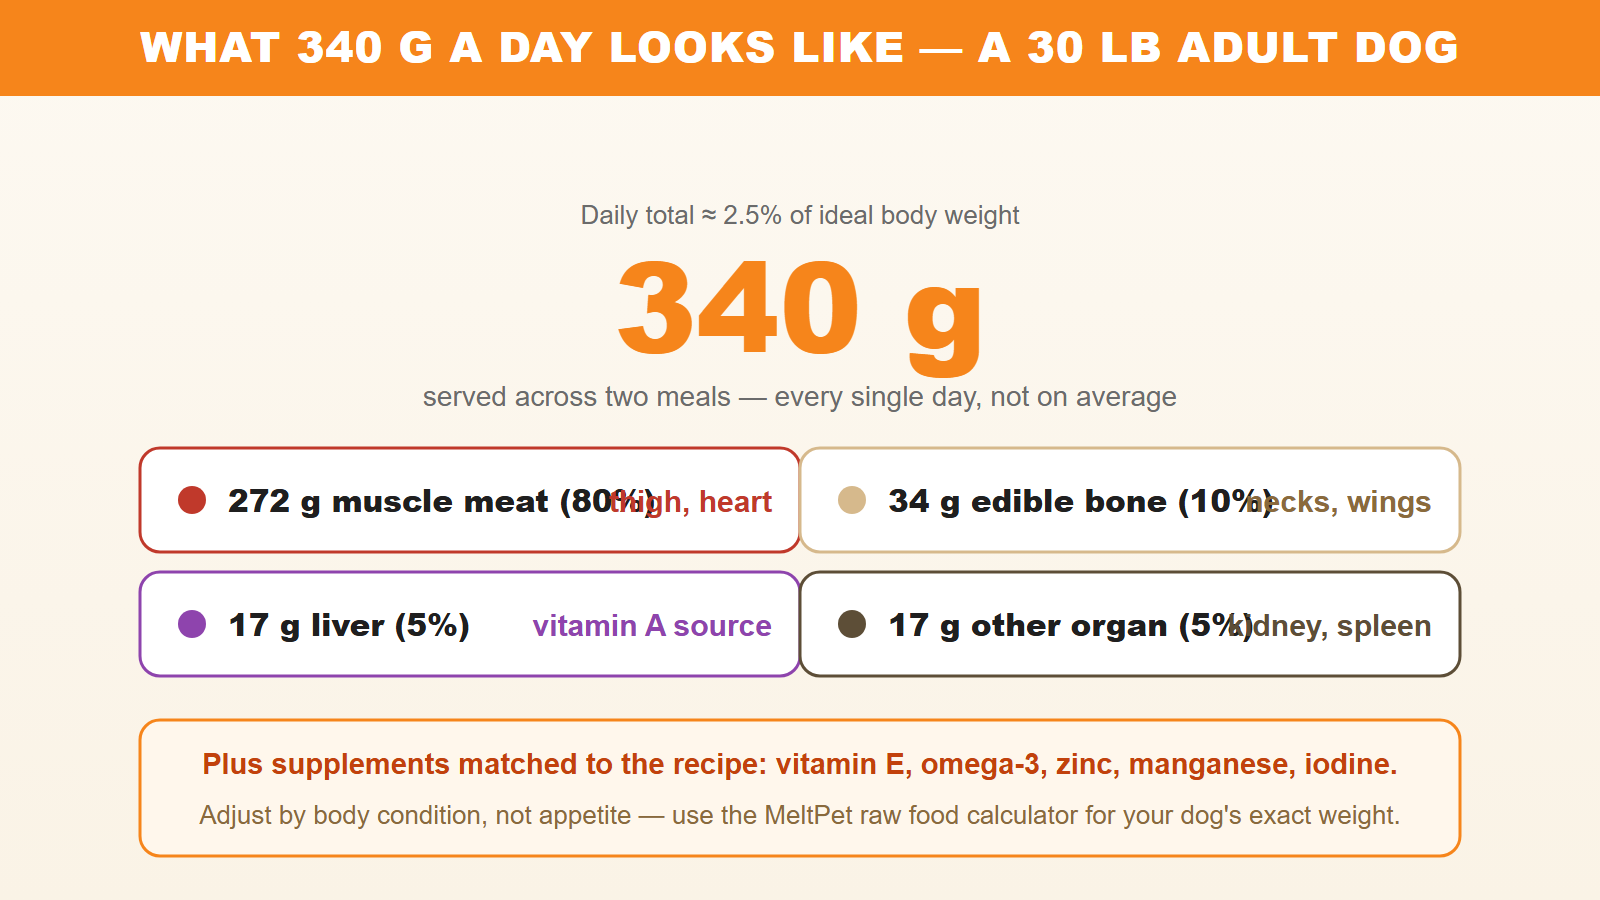
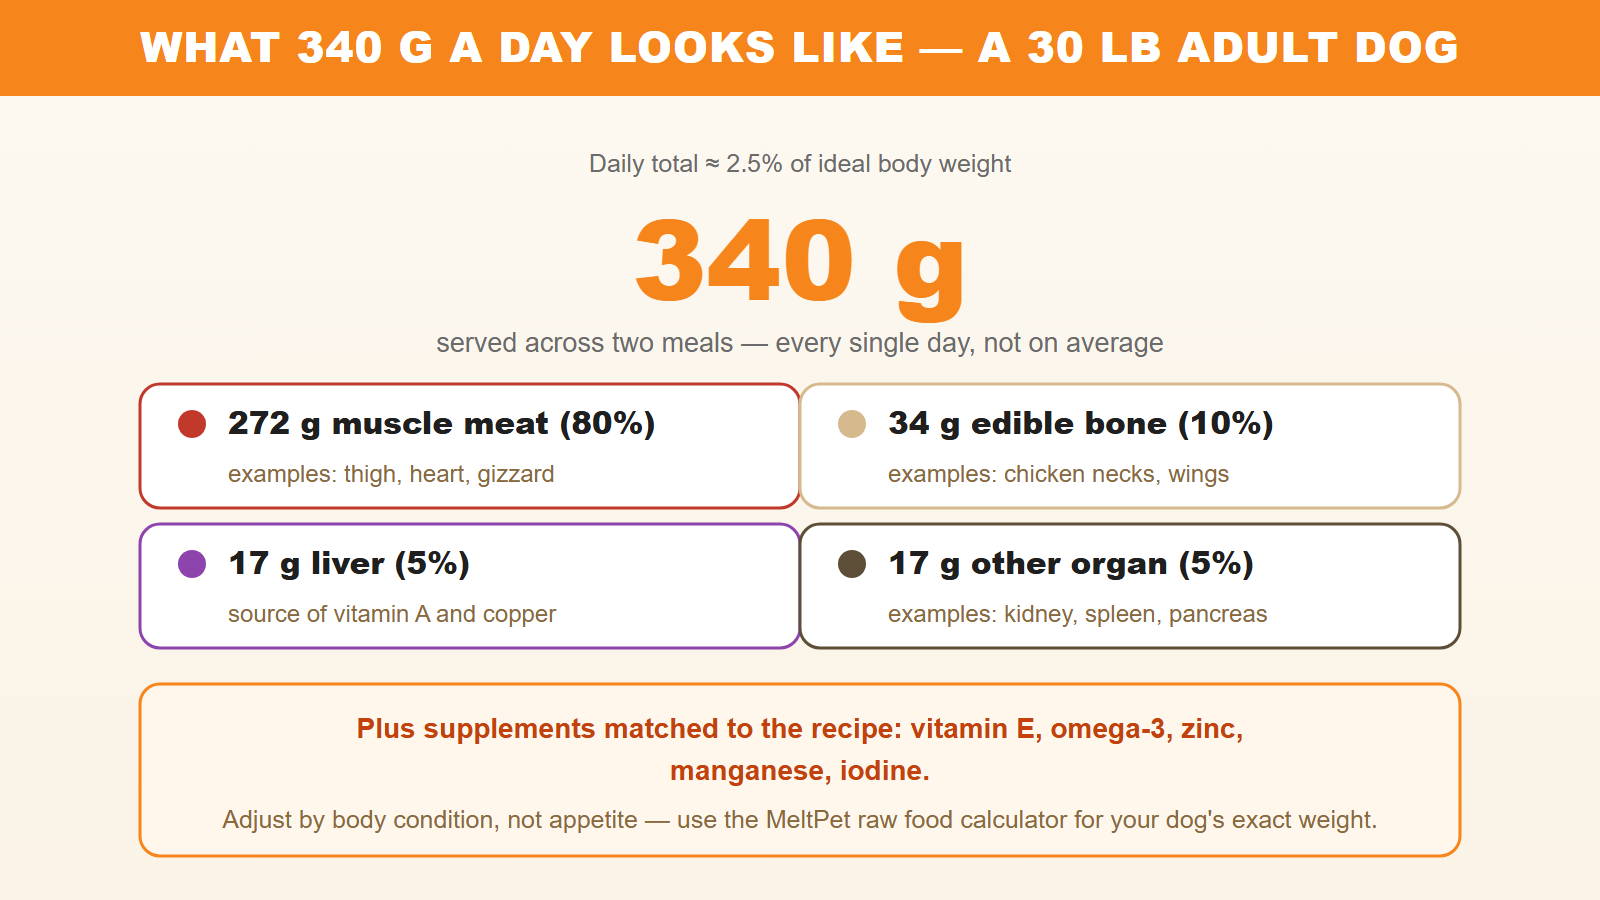
Fix text collision in 340g daily-amount cards: two-line layout (main text + example row), re-uploaded as -v2, CDN verified

Changed region(s): [[0.0625, 0.1556, 0.9375, 0.9333]]

diff --git a/how-to-start-raw-feeding.html b/how-to-start-raw-feeding.html
@@ -75,7 +75,7 @@
 
         <article class="article-section" data-page-node-id="HsVhxyQpBdtTY220ypqYtR">
             <h2 data-page-node-id="UTF1dwskhvtsbu0sXM7Zmm">A Worked Example: 340g a Day for a 30 lb Dog</h2>
-            <figure style="margin:20px 0;text-align:center;"><img src="https://cdn.meltpet.com/article/raw-feeding-daily-amount.png" alt="Daily raw food for a 30 lb dog: 340 grams total, split 272g muscle meat, 34g edible bone, 17g liver, 17g other organ" width="800" height="450" style="max-width:100%;height:auto;border-radius:10px;display:block;margin:0 auto;" loading="lazy"><figcaption style="font-size:0.82rem;color:var(--text-muted,#6B6B6B);margin-top:6px;">What 340g a day actually looks like for a 30 lb adult dog — the 80/10/5/5 split to the gram.</figcaption></figure>
+            <figure style="margin:20px 0;text-align:center;"><img src="https://cdn.meltpet.com/article/raw-feeding-daily-amount-v2.png" alt="Daily raw food for a 30 lb dog: 340 grams total, split 272g muscle meat, 34g edible bone, 17g liver, 17g other organ" width="800" height="450" style="max-width:100%;height:auto;border-radius:10px;display:block;margin:0 auto;" loading="lazy"><figcaption style="font-size:0.82rem;color:var(--text-muted,#6B6B6B);margin-top:6px;">What 340g a day actually looks like for a 30 lb adult dog — the 80/10/5/5 split to the gram.</figcaption></figure>
             <p data-page-node-id="rXAY21kua4qa3LDLrSkZzO">Here's what a complete day looks like for a 30 lb (13.6 kg) adult, neutered dog at maintenance. The starting point for daily amount is 2–3% of body weight —use 2.5% as your default and adjust by body condition, not by appetite.</p>
             <table data-page-node-id="rg23xMNA0DpKPX3XxUP5a7">
                 <thead data-page-node-id="5pWsfzxF1SqRwPMMW3y6ZS"><tr data-page-node-id="yaKrjsqUCT76Hq33swfoQe"><th data-page-node-id="kyEDgif8mZ0hGM3R0sJmI0">Component</th><th data-page-node-id="5Biz0FISI35t6WoTB8HigQ">% of Diet</th><th data-page-node-id="rRTjpYuQMiB00ycXZSucMK">Grams / Day</th><th data-page-node-id="I3990VWwfRAUWAZRcUoqMB">Why It's There</th></tr></thead><tbody data-page-node-id="AFmzqGKDHPNAbO6uCL5LG7">
